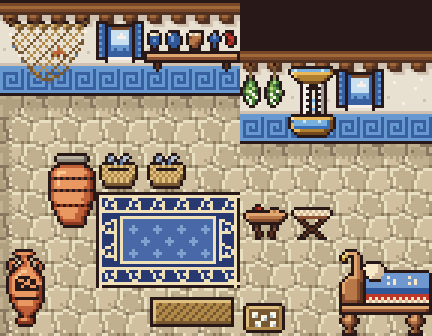
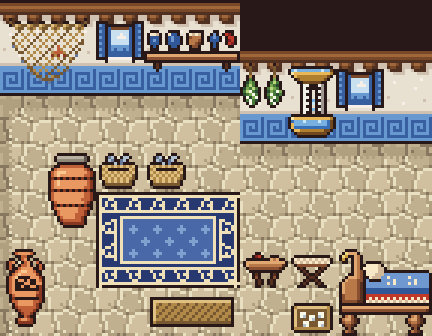
fix(map): keep a way round the people in Akti's two new homes
The slice playthrough couldn't reach the water clock past Doris, nor the
farmhouse hearth past the kid goat: each room had one path, through a person.
Doris's table and stool moved down a row, and Aigon's chair went, so both rooms
have a way round. akti.py now checks every interior with its standing people
as walls (across counters too), so a room that hides something behind someone
fails the build.

Changed region(s): [[0.5417, 0.8929, 0.7824, 1.0], [0.5417, 0.744, 0.7824, 0.8631], [0.5417, 0.5952, 0.7824, 0.7143]]

diff --git a/tools/ichor/maps/akti.py b/tools/ichor/maps/akti.py
@@ -708,6 +708,27 @@ def check():
                 continue
             if not any(p in reach and p not in objects for p in fronts):
                 errors.append(f"{name}: bg event at ({x},{y}) can't be read from any walkable tile")
+        if name != "AktiTown":
+            # indoors, people stand where they stand: nobody may wall off a thing to
+            # read or another person to talk to (the town's scenes move people, so it
+            # keeps the plain check above)
+            still = blocks.copy()
+            for o in ev["object_events"]:
+                if o["movement_type"] not in ("MOVEMENT_TYPE_WANDER_AROUND",):
+                    still[o["y"], o["x"]] |= SOLID
+            reach_still = reachable(still, start, extra_open=set(warps))
+            targets = [(b["x"], b["y"], "bg event") for b in ev["bg_events"]]
+            targets += [(o["x"], o["y"], "object") for o in ev["object_events"]]
+            hh, ww = blocks.shape
+            for (x, y, what) in targets:
+                fronts = []
+                for dx, dy in ((0, 1), (0, -1), (-1, 0), (1, 0)):
+                    fx, fy = x + dx, y + dy
+                    fronts.append((fx, fy))
+                    if 0 <= fx < ww and 0 <= fy < hh and behavior(int(blocks[fy, fx]) & 0x3FF, sec) == "MB_COUNTER":
+                        fronts.append((fx + dx, fy + dy))      # talked to across a counter
+                if not any(p in reach_still for p in fronts):
+                    errors.append(f"{name}: the {what} at ({x},{y}) can't be reached past the people in the room")
         if name == "AktiTown":
             for x in range(width):
                 ok = walkable(blocks, x, H - 1)

diff --git a/tools/ichor/maps/akti_homes.py b/tools/ichor/maps/akti_homes.py
@@ -64,11 +64,11 @@ HOMES = {
             ("pithos", 1, 3),
             ("fish_basket", 2, 3),
             ("fish_basket", 3, 3),
-            ("table_round", 5, 4),
-            ("stool", 6, 4),
+            ("table_round", 5, 5),
+            ("stool", 6, 5),
             ("kline", 7, 5),
             ("amphora", 0, 5),
-            ("knucklebones", 5, 6),
+            ("knucklebones", 6, 6),
             ("mat", 3, 6),
         ],
         "spots": [
@@ -109,7 +109,6 @@ HOMES = {
             ("kline", 8, 3),
             ("pithos", 10, 3),
             ("table", 5, 4),
-            ("klismos_r", 4, 4),
             ("mortar", 3, 4),
             ("myrtle", 1, 5),
             ("mat", 3, 6),
